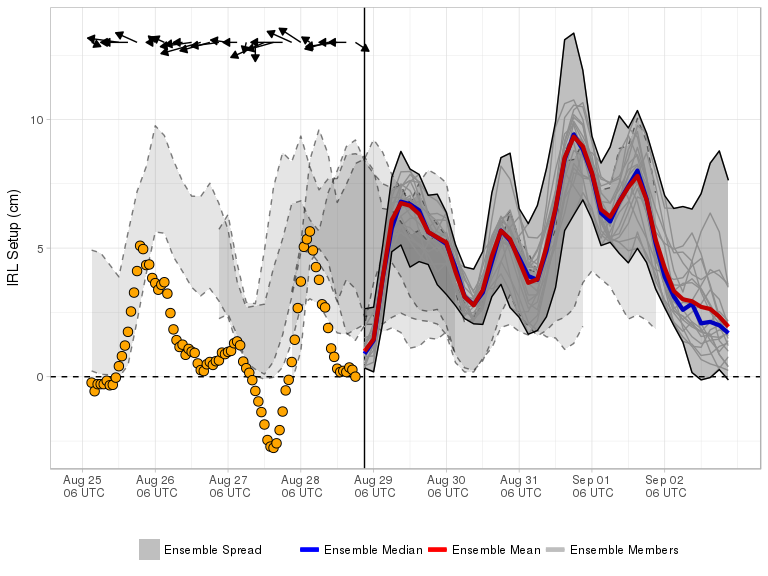
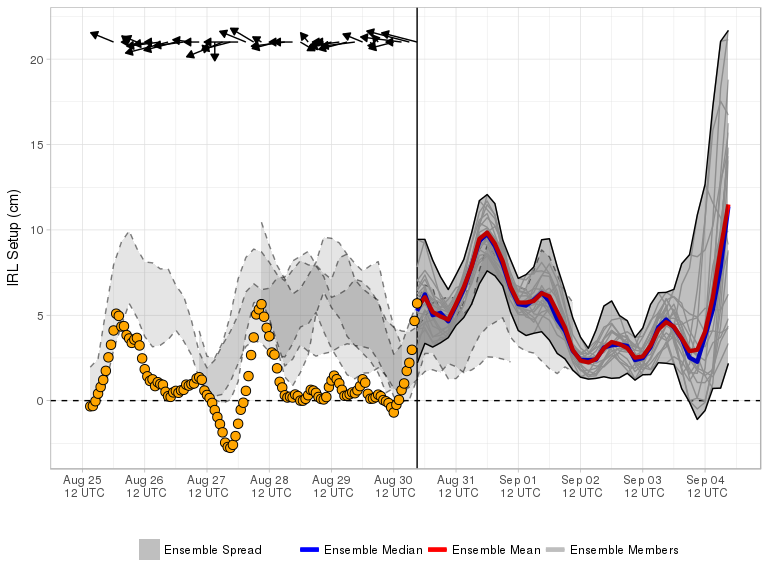
Forecast Update

Changed region(s): [[0.0938, 0.0312, 0.9688, 0.875], [0.6562, 0.8125, 0.9375, 0.875], [0.0312, 0.0938, 0.0625, 0.125]]

diff --git a/docs/index.md b/docs/index.md
@@ -1,9 +1,9 @@
-Current Forecast 2018-08-28, Cycle 18 UTC
+Current Forecast 2018-08-30, Cycle 12 UTC
 -----------------------------------------
 
 [![](img/raw_setup.png)](https://fit-winds.github.io/IRLSetup/img/raw_setup.png)
 
-> Forecast valid 2018-08-28 20:38:48.
+> Forecast valid 2018-08-30 18:08:17.
 
 Explanation
 -----------
@@ -23,7 +23,7 @@ Ensemble Forecast System
 cycles. Calculation of the IRL setup is performed shortly after a new
 GEFS cycle is made available on the [data access
 link](http://www.ftp.ncep.noaa.gov/data/nccf/com/gens/prod/). The
-current cycle 2018-08-28 18 UTC 0.5° GEFS mean and median forecasts of
+current cycle 2018-08-30 12 UTC 0.5° GEFS mean and median forecasts of
 setup are represented by the red and blue curves, respectively. Ensemble
 spread from the current and three previous GEFS runs are shaded grey and
 bounded by solid and dashed curves, respectively.
